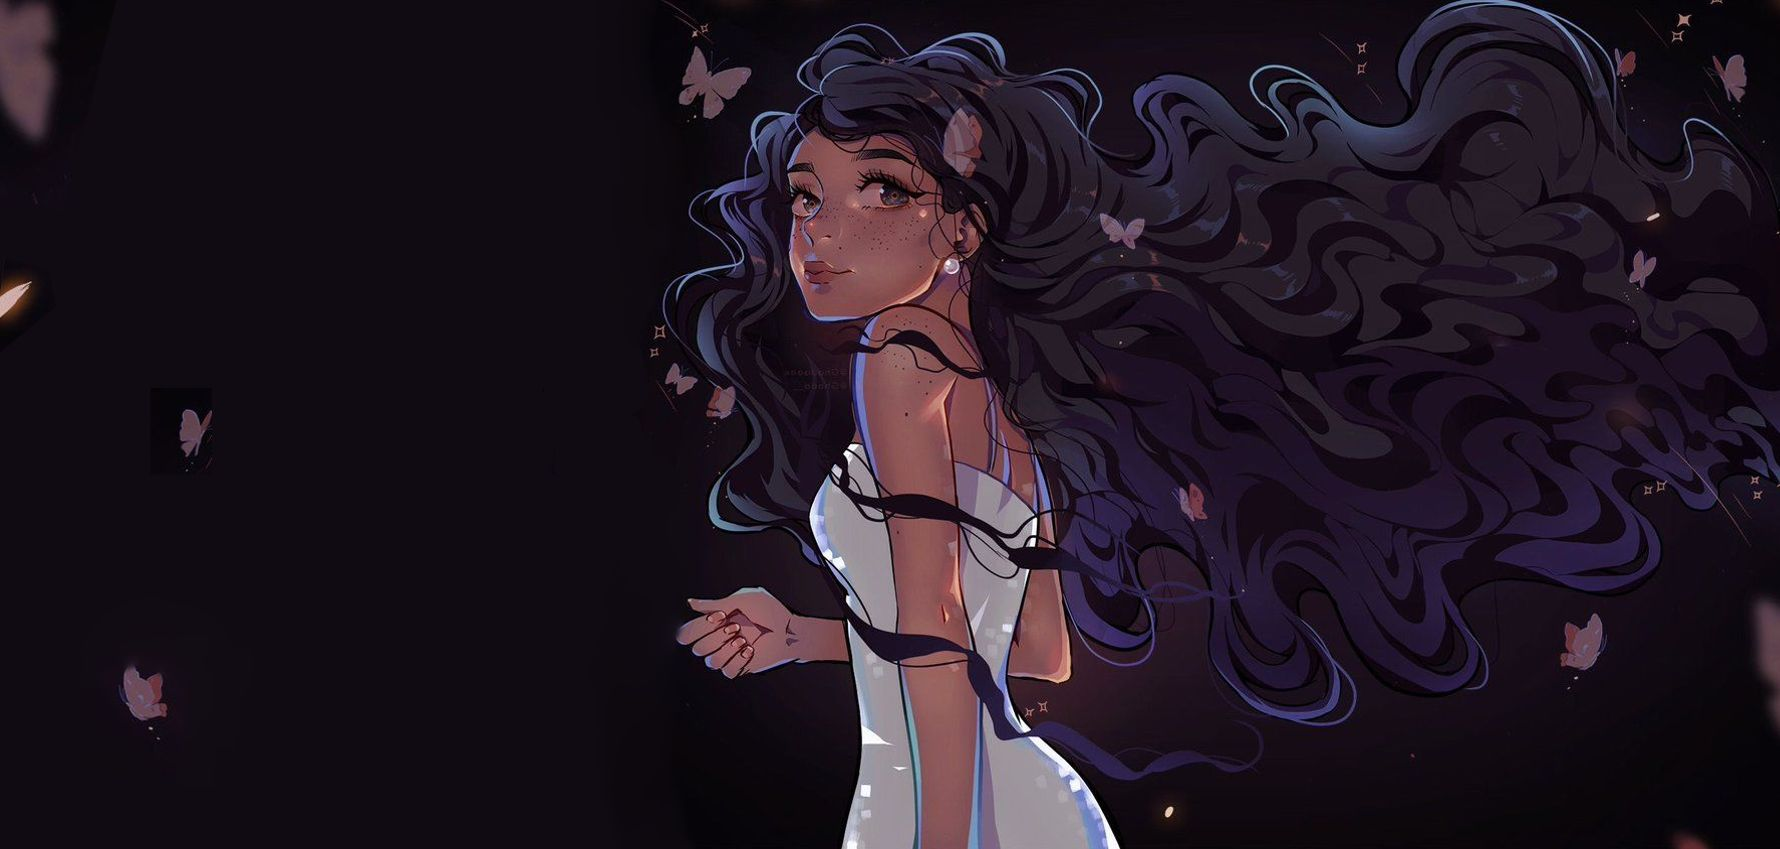
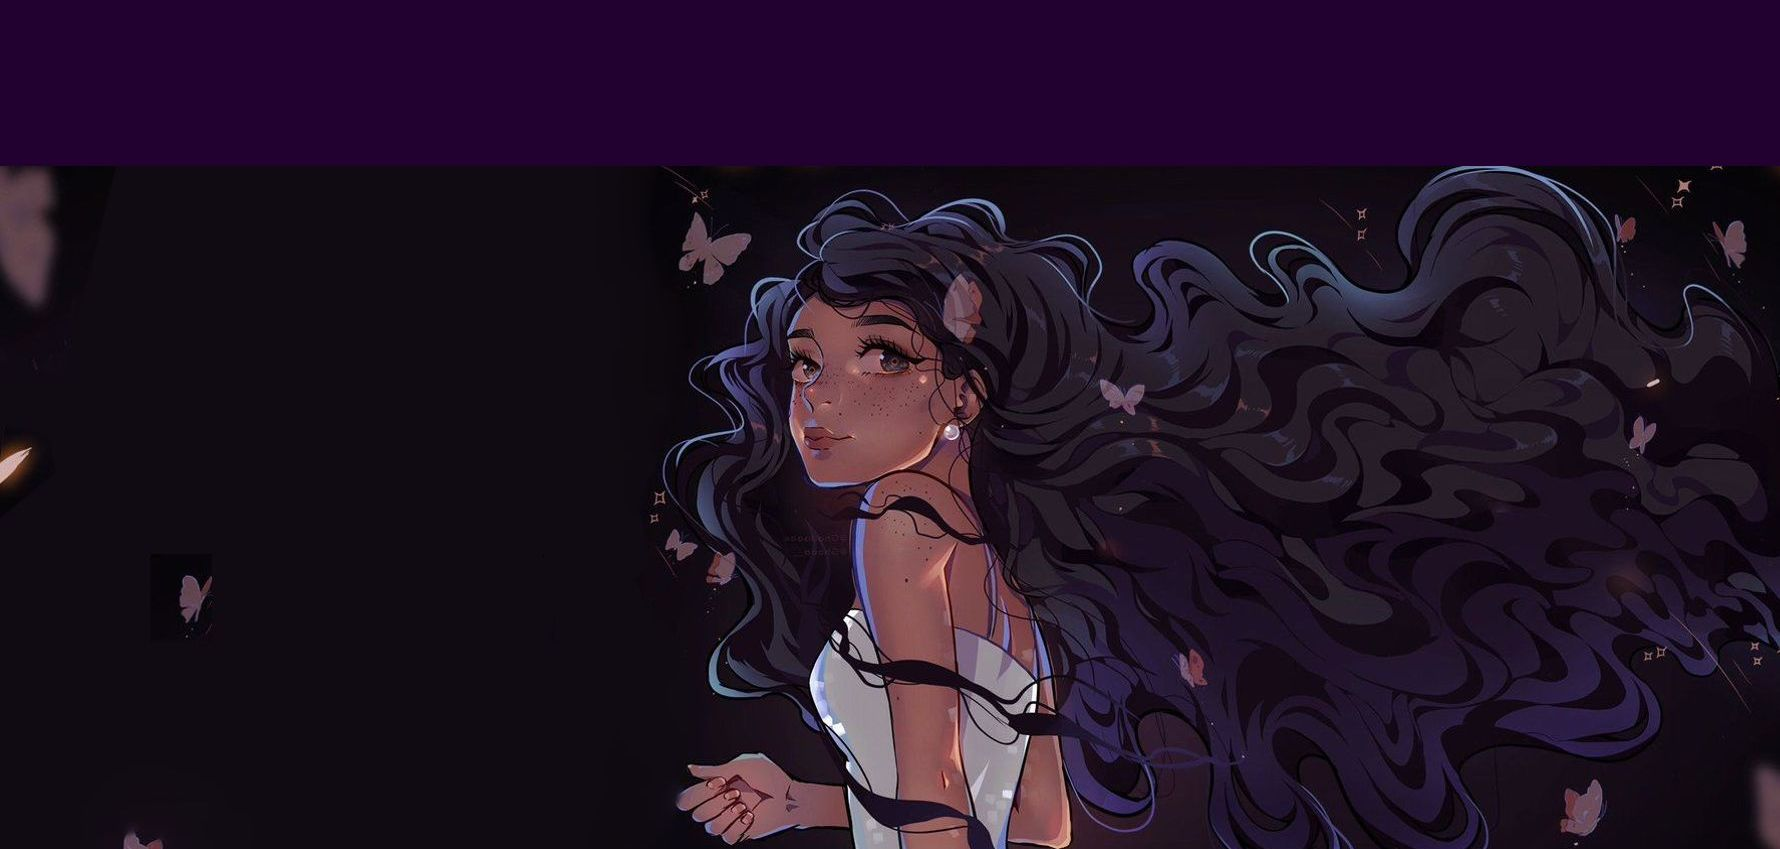
added bubbles

diff --git a/Html&Css/grid/graphic_designer.html b/Html&Css/grid/graphic_designer.html
@@ -18,7 +18,6 @@
     <link rel="preconnect" href="https://fonts.gstatic.com" crossorigin>
     <link href="https://fonts.googleapis.com/css2?family=Comfortaa:wght@500&display=swap" rel="stylesheet">
 
-
     <style>
         body {
             margin: 0;
@@ -33,19 +32,26 @@
             display: grid;
             grid-template-columns: 5fr 8fr;
             grid-template-areas:
-                "logo  headernav"
-                " headertext . "
+                "logo  headernav "
+                " headertext  svg"
             ;
-            grid-template-rows: 2fr 5.5fr;
+            grid-template-rows: 2fr 8.5fr;
             align-items: center;
             column-gap: 50px;
 
 
             background-image: url(img/back.jpg);
-            background-size: 100%;
+            background-size: cover;
             background-repeat: no-repeat;
+            position: relative;
+
+        }
 
 
+        .svg {
+            position: absolute;
+            bottom: 0;
+            right: 0;
         }
 
 
@@ -60,7 +66,7 @@
             grid-template-columns: repeat(7, auto);
             justify-content: center;
             column-gap: 20px;
-            margin-bottom: 50px;
+
             font-family: 'Comfortaa', cursive;
 
         }
@@ -90,6 +96,11 @@
             margin: 0;
         }
 
+        .img-logo {
+            width: 300px;
+
+        }
+
 
         .online {
             font-family: 'Bungee Shade', cursive;
@@ -97,61 +108,17 @@
             color: rgb(255, 234, 77);
         }
 
-
-
-        @media(max-width: 750px) {
-            .headert {
-                background-size: 150%;
-                display: grid;
-                grid-template-columns: 5fr 5fr;
-                grid-template-areas:
-                    "logo  headernav"
-                    " headertext . "
-                ;
-                grid-template-rows: 0.5fr 2fr;
-                align-items: flex-start;
-                background-position-x: -70px;
-
-
-
-            }
-
-            .img-logo {
-                width: 90%;
-
-            }
-
+        @media(max-width: 1125px) {
             .headernav {
-                grid-area: headernav;
-                display: grid;
-                grid-template-columns: 1fr;
-                grid-template-rows: repeat(7, auto);
-                justify-content: flex-end;
-                column-gap: 20px;
-                margin-top: 20px;
-                font-size: 20px;
-                margin-left: 150px;
-
-
+                font-size: 11px;
             }
-
-            .headertext {
-                grid-area: headertext;
-                color: white;
-                font-size: 15px;
-                margin-left: 50px;
-
-                position: relative;
-                bottom: 108px;
-
-            }
-
-
         }
 
-        @media(max-width: 620px) {
+
+
+        @media(max-width: 850px) {
             .headert {
-                background-size: 150%;
+                /* background-size: 150%; */
                 display: grid;
                 grid-template-columns: 5fr 5fr;
                 grid-template-areas:
@@ -160,7 +127,10 @@
                 ;
                 grid-template-rows: 0.5fr 2fr;
                 align-items: flex-start;
-                background-position-x: -20px;
+                /* background-position-x: -20px; */
+                background-image: url(img/back2.jpg);
+                background-position: center;
+
 
             }
 
@@ -188,22 +158,14 @@
             .headertext {
                 grid-area: headertext;
                 color: white;
-                font-size: 8px;
+                font-size: 10px;
                 margin-left: 50px;
 
                 position: relative;
-                bottom: 80px;
+                /* bottom: 80px; */
 
             }
 
-
-        }
-
-
-        @media(max-width: 1000px) {
-            .headert {
-                background-size: 150%;
-            }
 
         }
     </style>
@@ -212,6 +174,82 @@
 <body>
     <div class="container">
         <header class="headert">
+
+            <!-- svg -->
+
+            <svg class="svg" style="width: 170px; height: 120px;">
+                <defs>
+                    <radialGradient id="grad1" cx="50%" cy="50%" r="50%" fx="50%" fy="50%">
+                        <stop offset="0%" style="stop-color:rgba(136, 183, 253, 0.486);
+                    stop-opacity:0" />
+                        <stop offset="100%" style="stop-color:rgba(251, 137, 255, 0.479);stop-opacity:1" />
+                    </radialGradient>
+                </defs>
+
+                <circle cx="160" cy="120" r="80" style="fill:url(#grad1)" style="position: absolute; bottom:90px;" />
+            </svg>
+
+           
+
+
+            <svg height="85" width="135" class="svg" style="position: absolute; bottom:90px;">
+                <defs>
+                    <radialGradient id="grad1" cx="50%" cy="50%" r="50%" fx="50%" fy="50%">
+                        <stop offset="0%" style="stop-color:rgba(136, 183, 253, 0.486);
+                    stop-opacity:0" />
+                        <stop offset="100%" style="stop-color:rgba(251, 137, 255, 0.479);stop-opacity:1" />
+                    </radialGradient>
+                </defs>
+                <circle cx="100" cy="50" r="30" fill="url(#grad1)" />
+            </svg>
+
+            <svg height="85" width="135" class="svg" style="position: absolute; bottom:40px; right:30px;">
+                <defs>
+                    <radialGradient id="grad1" cx="50%" cy="50%" r="50%" fx="50%" fy="50%">
+                        <stop offset="0%" style="stop-color:rgba(136, 183, 253, 0.486);
+                    stop-opacity:0" />
+                        <stop offset="100%" style="stop-color:rgba(251, 137, 255, 0.479);stop-opacity:1" />
+                    </radialGradient>
+                </defs>
+                <circle cx="100" cy="50" r="20" fill="url(#grad1)" />
+            </svg>
+
+            <svg height="85" width="135" class="svg" style="position: absolute; bottom:40px; right:60px;">
+                <defs>
+                    <radialGradient id="grad1" cx="50%" cy="50%" r="50%" fx="50%" fy="50%">
+                        <stop offset="0%" style="stop-color:rgba(136, 183, 253, 0.486);
+                    stop-opacity:0" />
+                        <stop offset="100%" style="stop-color:rgba(251, 137, 255, 0.479);stop-opacity:1" />
+                    </radialGradient>
+                </defs>
+                <circle cx="100" cy="50" r="10" fill="url(#grad1)" />
+            </svg>
+
+            <svg height="220" width="220" class="svg" style="position: absolute; top:120px; left:0px; transform: rotate(180deg); ">
+                <defs>
+                    <radialGradient id="grad1" cx="50%" cy="50%" r="50%" fx="50%" fy="50%">
+                        <stop offset="0%" style="stop-color:rgba(136, 183, 253, 0.486);
+                    stop-opacity:0" />
+                        <stop offset="100%" style="stop-color:rgba(251, 137, 255, 0.37);stop-opacity:1" />
+                    </radialGradient>
+                </defs>
+                <circle cx="160" cy="120" r="50" fill="url(#grad1)" />
+            </svg>
+
+            <svg height="85" width="135" class="svg" style="position: absolute; top:80px; left:0px; ">
+                <defs>
+                    <radialGradient id="grad1" cx="50%" cy="50%" r="50%" fx="50%" fy="50%">
+                        <stop offset="0%" style="stop-color:rgba(136, 183, 253, 0.486);
+                    stop-opacity:0" />
+                        <stop offset="100%" style="stop-color:rgba(251, 137, 255, 0.377);stop-opacity:1" />
+                    </radialGradient>
+                </defs>
+                <circle cx="100" cy="50" r="30" fill="url(#grad1)" />
+            </svg>
+
+            <!-- svg -->
+
+
 
             <a href="#" class="logo"><img class="img-logo" src="img/logo.png" alt=""></a>
             <div class="headernav">
@@ -223,11 +261,11 @@
                 <a href="#" class="nav-link">Контакты</a>
                 <a href="#" class="nav-link">Вакансии</a>
             </div>
-
             <div class="headertext">
                 <h1 class="header-title">Цифровой рисунок <span class="online">Online</span></h1>
                 <p class="header-par">ПРОЙДИ ПУТЬ ОТ ПЕРВОЙ ЛИНИИ ДО ПОЛНОЦЕННОГО АРТА</p>
             </div>
+
 
         </header>
     </div>
